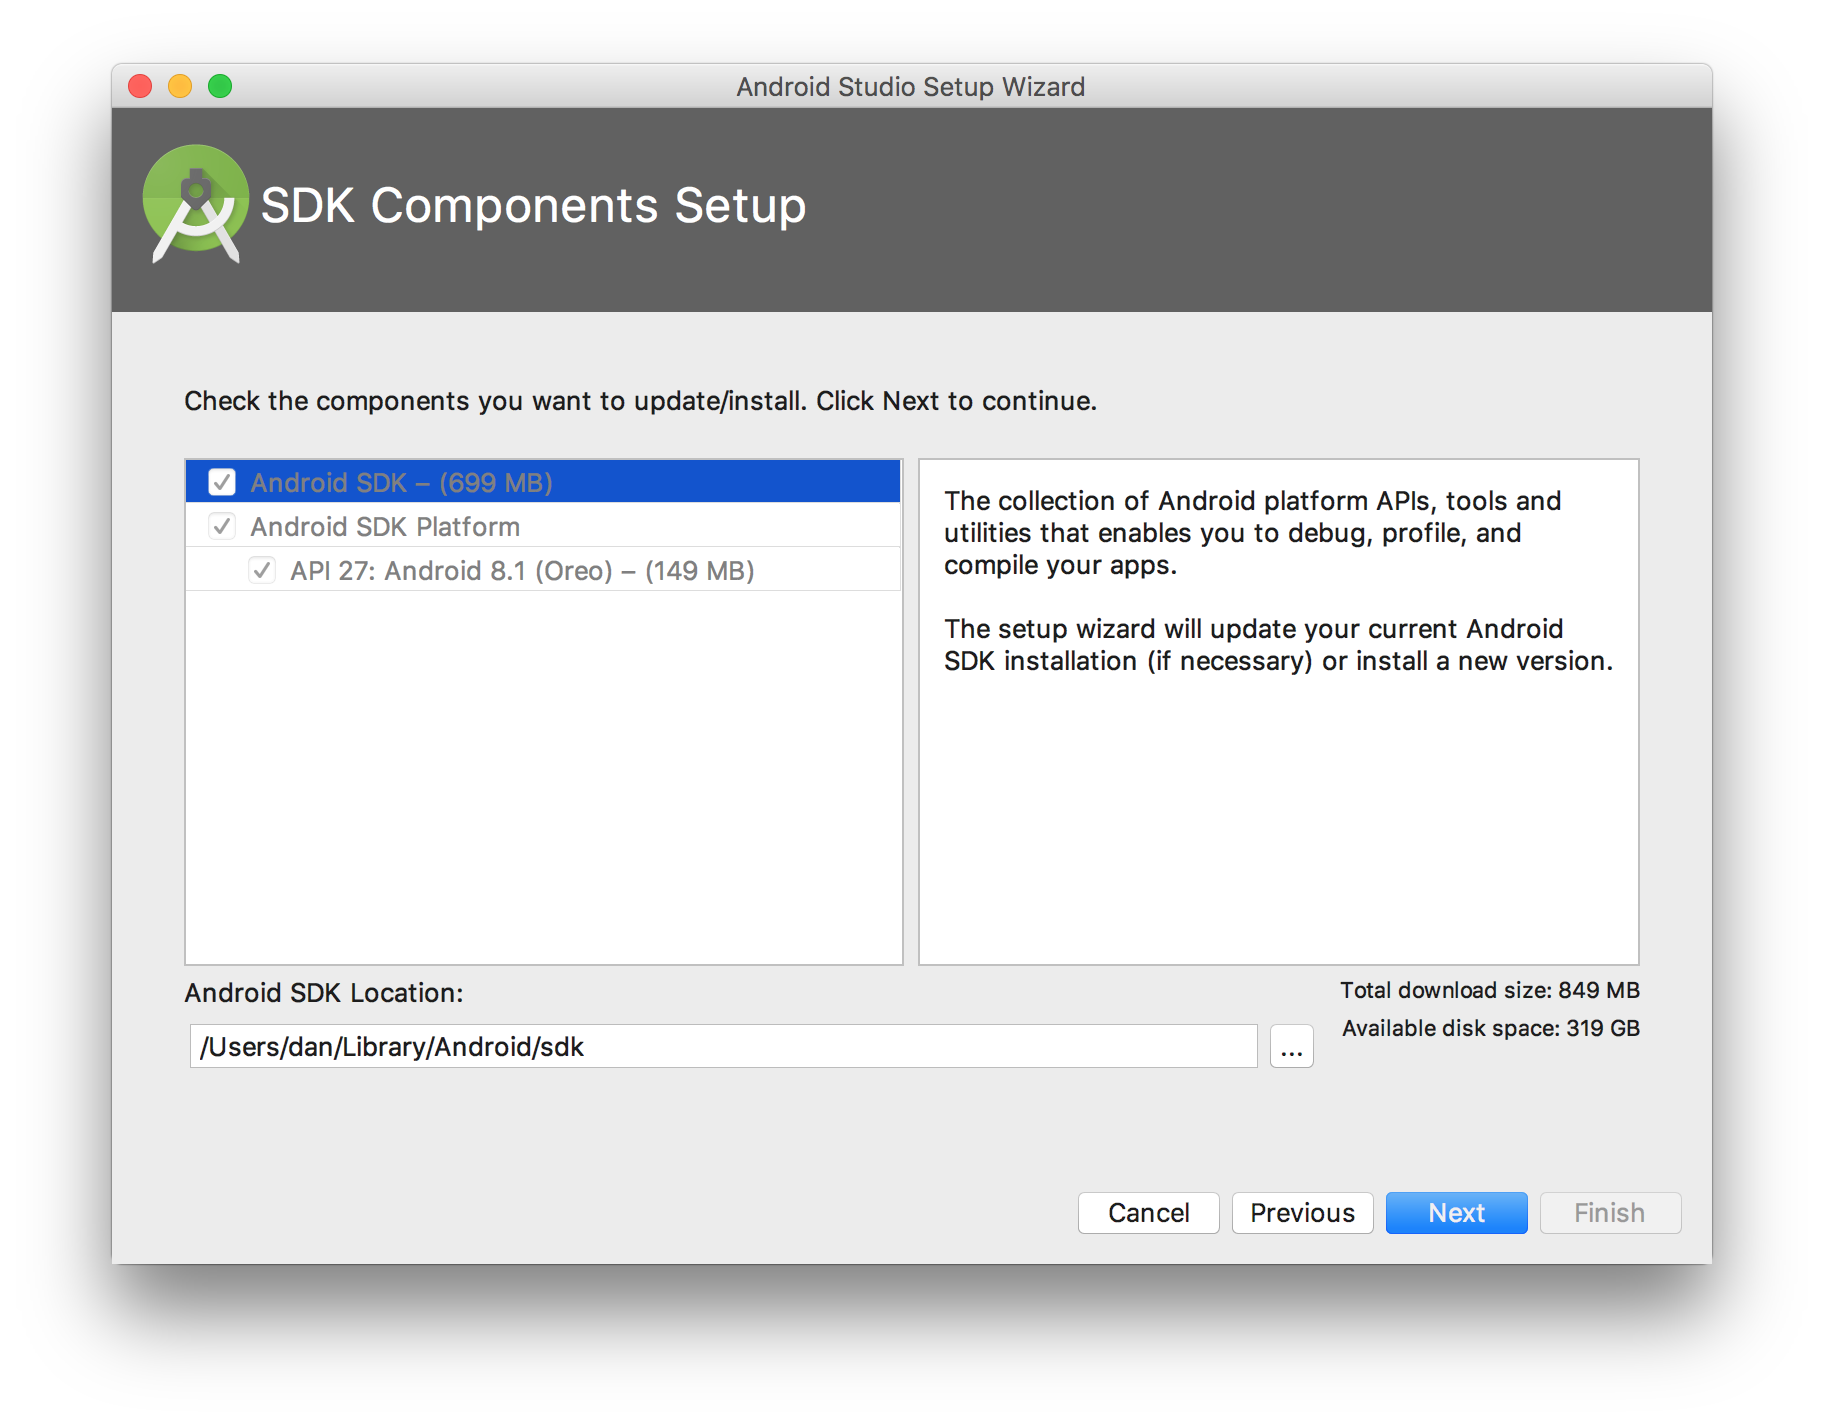
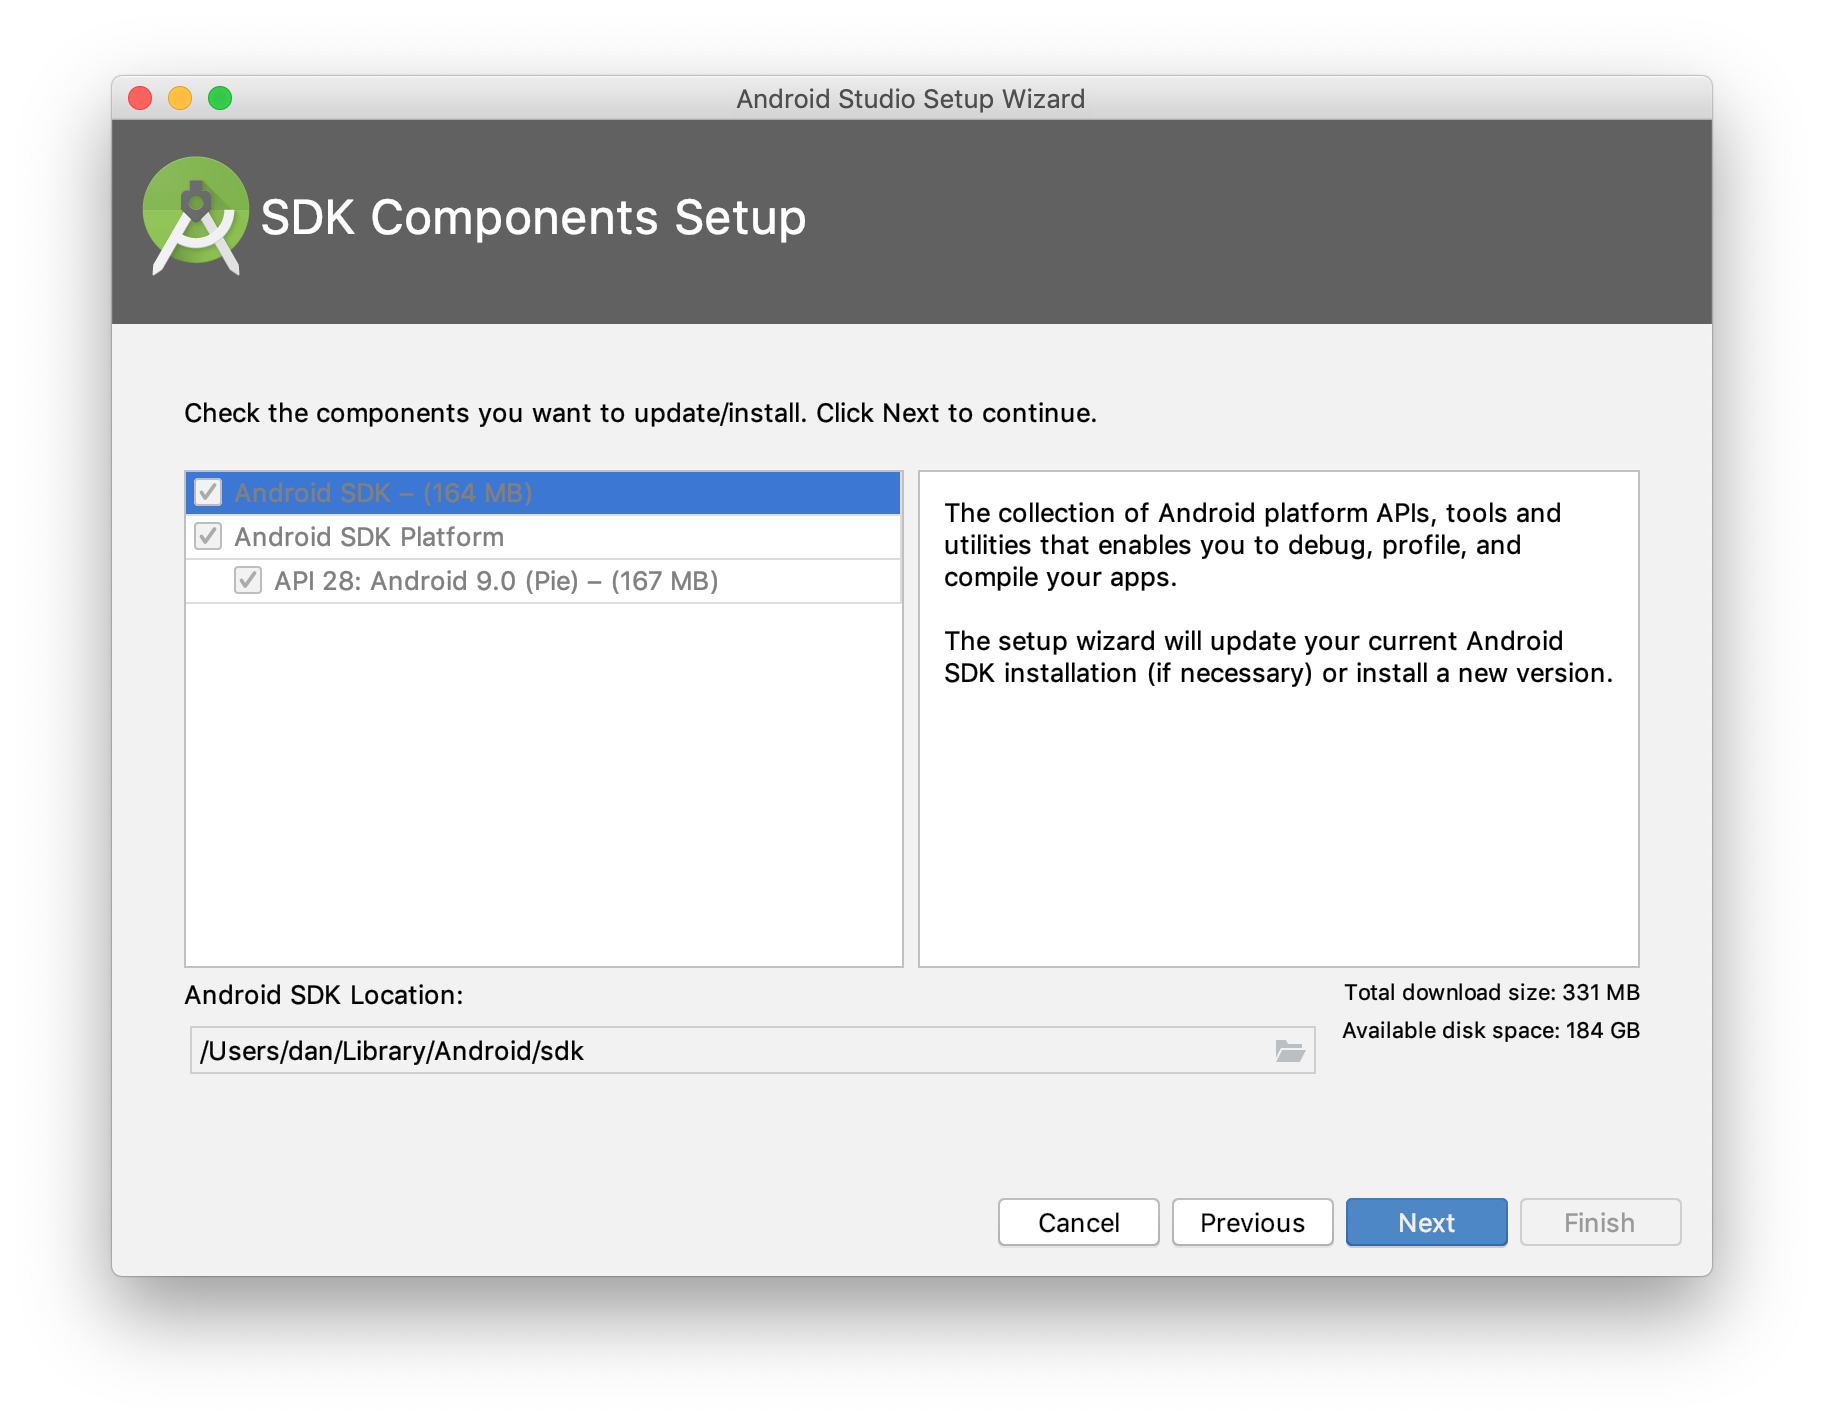
modernize the android setup docs

diff --git a/src/pages/installation/android.md b/src/pages/installation/android.md
@@ -16,12 +16,12 @@ To target the Android platform, some additional environment setup is required. A
 Native Android apps are compiled with the <a href="https://java.com/en/" target="_blank">Java</a> programming language. Download JDK8 from the <a href="https://www.oracle.com/technetwork/java/javase/downloads/jdk8-downloads-2133151.html" target="_blank">download page</a>.
 
 <blockquote>
-  <p>Cordova is not compatible with Java 11 yet. You must install JDK8 to build Cordova Android apps.</p>
+  <p>Cordova is not compatible with the latest version of Java. You must install JDK8 to build Android apps with Cordova.</p>
 </blockquote>
 
 ## Gradle
 
-<a href="https://gradle.org/" target="_blank">Gradle</a> is the build tool used in Android apps and can be installed separately. See the <a href="https://gradle.org/install/" target="_blank">install page</a> for details.
+<a href="https://gradle.org/" target="_blank">Gradle</a> is the build tool used in Android apps and must be installed separately. See the <a href="https://gradle.org/install/" target="_blank">install page</a> for details.
 
 ## Android Studio
 
@@ -31,7 +31,7 @@ Android Studio is also used to [create Android virtual devices](/docs/installati
 
 ### Installing Android Studio
 
-Download Android Studio from the <a href="https://developer.android.com/studio/" target="_blank">Android website<a>. More detailed installation instructions can be found in the <a href="https://developer.android.com/studio/install" target="_blank">User Guide</a>.
+Download Android Studio from the <a href="https://developer.android.com/studio/" target="_blank">Android website</a>. More detailed installation instructions can be found in the <a href="https://developer.android.com/studio/install" target="_blank">User Guide</a>.
 
 ### Installing the Android SDK
 
@@ -39,9 +39,14 @@ Once installed, open Android Studio. The IDE should detect that the Android SDK 
 
 ![Android Studio SDK Setup](/docs/assets/img/installation/android-studio-sdk-setup.png)
 
-After the Android SDK is installed, Android Studio can be closed.
+By default, the latest stable SDK Platform is installed, which includes a collection of packages required to target that version of Android.
 
-For future reference, the Android SDK can be managed with Android Studio in the **Configure** &raquo; **SDK Manager** menu.
+<blockquote>
+    📝 <strong>Note</strong>: To install system images and other minor SDK platform packages, you may need to ensure <strong>Show Package Details</strong> is checked at the bottom of the SDK Manager.
+    <img alt="Android Studio SDK Manager" src="/docs/assets/img/installation/android-studio-sdk.png" />
+</blockquote>
+
+For future reference, the Android SDK can be managed with Android Studio in the **Configure** &raquo; **SDK Manager** menu of the Android Studio welcome screen or **Tools** &raquo; **SDK Manager** inside Android projects.
 
 ### Configuring Command Line Tools
 
@@ -69,23 +74,23 @@ In `~/.bashrc`, `~/.bash_profile`, or similar shell startup scripts, make the fo
    </command-line>
 
    <blockquote>
-     <p>For `apksigner` and `zipalign`, `$ANDROID_SDK_ROOT/build-tools/<version>` must also be added to `PATH`.</p>
+     <p>For <code>apksigner</code> and <code>zipalign</code>, <code>$ANDROID_SDK_ROOT/build-tools<version></code> must also be added to <code>PATH</code>.</p>
    </blockquote>
 
 ### Creating an Android Virtual Device
 
-Android Virtual Devices (AVDs) are a blueprint that the Android emulator uses to run Android OS. The following documentation is a quick way to get the Android emulator set up. For more detailed instructions and information, see <a href="https://developer.android.com/studio/run/managing-avds" target="_blank">the Android documentation</a>.
+Android Virtual Devices (AVDs) are blueprints that the Android emulator uses to run the Android OS. The following documentation is a quick way to get the Android emulator set up. For more detailed instructions and information, see <a href="https://developer.android.com/studio/run/managing-avds" target="_blank">the Android documentation</a>.
 
-AVDs are managed with the AVD Manager. The AVD Manager must be accessed inside an Android project in the **Tools** &raquo; **AVD Manager** menu. The **Tools** menu may not be accessible in the main screen. Create an Android project to access the full menu.
+AVDs are managed with the AVD Manager. In the Android Studio welcome screen, click **Configure** &raquo; **AVD Manager**. The AVD Manager can also be opened inside Android projects in the **Tools** &raquo; **AVD Manager** menu.
 
 ![AVD Setup](/docs/assets/img/installation/android-studio-avd-setup.png)
 
-Click **Create Virtual Device** and select a suitable device definition. If unsure, choose **Pixel 2 XL**. Then, select a suitable system image. If unsure, choose the latest version. See <a href="https://en.wikipedia.org/wiki/Android_version_history" target="_blank">Android version history</a> for information on Android versions.
+Click **Create Virtual Device** and select a suitable device definition. If unsure, choose **Pixel 2**. Then, select a suitable system image. If unsure, choose **Pie** (API 28) with Google Play services. See <a href="https://en.wikipedia.org/wiki/Android_version_history" target="_blank">Android version history</a> for information on Android versions.
 
 Once the AVD is created, launch the AVD into the Android emulator. Keeping the emulator running is the best way to ensure detection while developing Ionic apps for Android.
 
-<figure class="center" style="width: 300px">
-    ![Android Emulator Booting](/docs/assets/img/installation/android-emulator-booting.png)
+<figure style="width: 300px; margin: 0 auto;">
+    <img alt="Android Emulator Booting" src="/docs/assets/img/installation/android-emulator-booting.png" />
 </figure>
 
 ### Set up an Android Device
